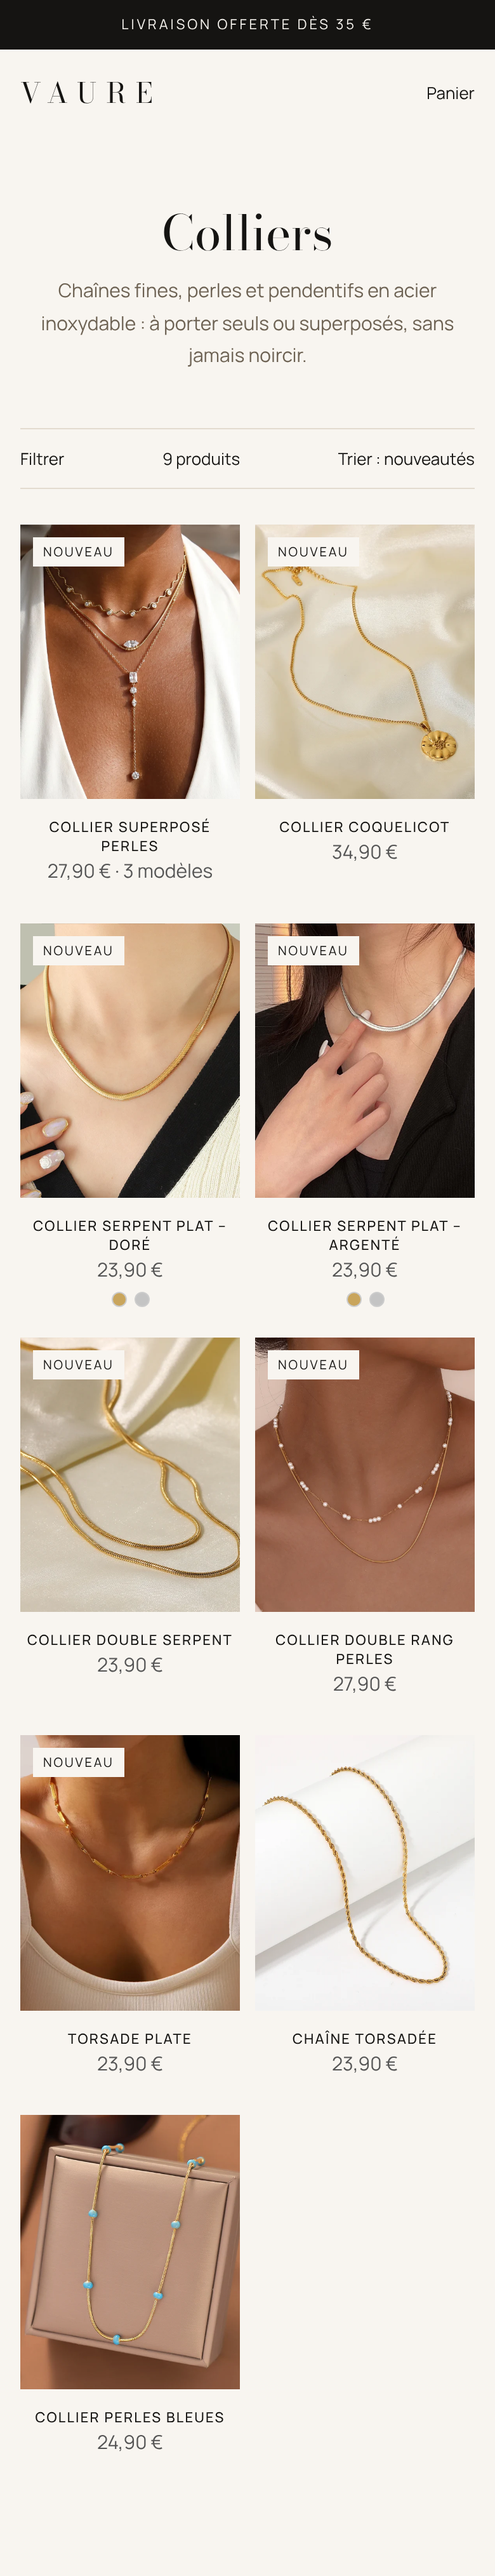
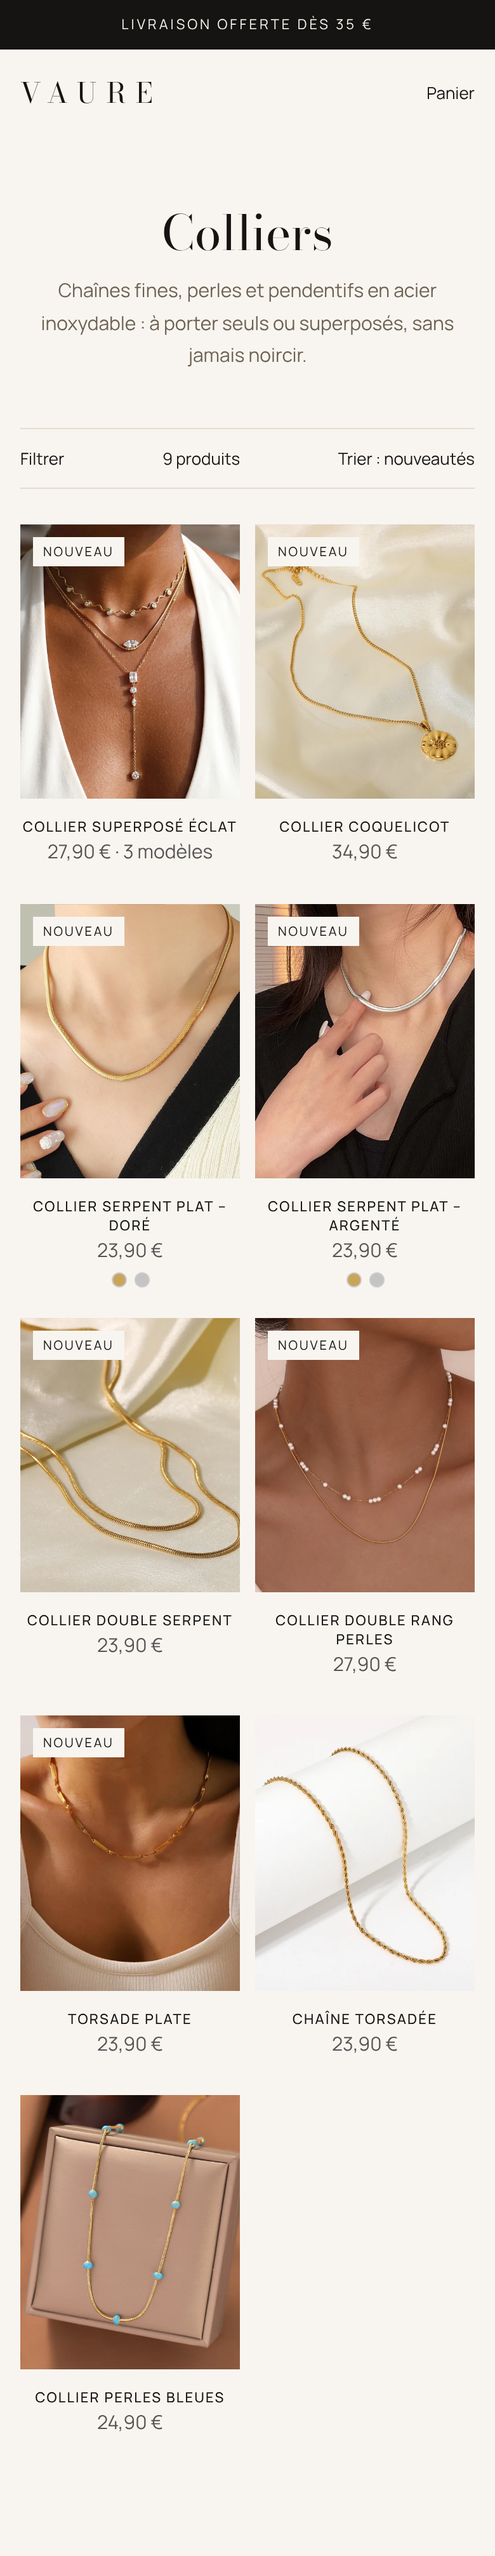
VAURE: Collier Superposé Éclat (zircons, modèles vendus séparément)
Claude-Session: https://claude.ai/code/session_013s4U6wyjEEiqqasJXAgjhq

diff --git a/vaure/docs/apercu/collection-colliers.html b/vaure/docs/apercu/collection-colliers.html
@@ -11,4 +11,4 @@
 @media(max-width:700px){.w{padding:0 16px}header nav,.ic span{display:none}h1{font-size:38px}.grid{grid-template-columns:1fr 1fr;gap:24px 12px}.card h6{font-size:11px;letter-spacing:.1em}}</style></head><body>
 <div class="ann">Livraison offerte dès 35 €</div><div class="w"><header><nav><span>Bijoux</span><span>Sacs</span><span>Ceintures</span><span>Idées cadeaux</span></nav><b>VAURE</b><div class="ic"><span>Rechercher</span><span>Compte</span>Panier</div></header>
 <div class="head"><h1>Colliers</h1><p>Chaînes fines, perles et pendentifs en acier inoxydable : à porter seuls ou superposés, sans jamais noircir.</p></div>
-<div class="bar"><span>Filtrer</span><span>9 produits</span><span>Trier : nouveautés</span></div><div class="grid"><div class="card"><div class="im" style="background-image:url(https://cdn.shopify.com/s/files/1/1007/2742/3358/files/ee2d46a5-8291-44d2-87dd-3242ead25df1.jpg?width=700)"><span class=tag>Nouveau</span></div><h6>Collier Superposé Perles</h6><p>27,90 € · 3 modèles</p><div class="dots"></div></div><div class="card"><div class="im" style="background-image:url(https://cdn.shopify.com/s/files/1/1007/2742/3358/files/5cbebb50-ffba-40a2-9ae4-e30207c7d6e8.jpg?width=700)"><span class=tag>Nouveau</span></div><h6>Collier Coquelicot</h6><p>34,90 €</p><div class="dots"></div></div><div class="card"><div class="im" style="background-image:url(https://cdn.shopify.com/s/files/1/1007/2742/3358/files/9660b893-78ed-4913-ac18-316025d2ef5c.jpg?width=700)"><span class=tag>Nouveau</span></div><h6>Collier Serpent Plat – Doré</h6><p>23,90 €</p><div class="dots"><i style="background:#c9a55c"></i><i style="background:#c4c4c4"></i></div></div><div class="card"><div class="im" style="background-image:url(https://cdn.shopify.com/s/files/1/1007/2742/3358/files/5ead61bb-2cae-4f85-804e-be19d75da4a9.jpg?width=700)"><span class=tag>Nouveau</span></div><h6>Collier Serpent Plat – Argenté</h6><p>23,90 €</p><div class="dots"><i style="background:#c9a55c"></i><i style="background:#c4c4c4"></i></div></div><div class="card"><div class="im" style="background-image:url(https://cdn.shopify.com/s/files/1/1007/2742/3358/files/d84f41c0-84d4-45f8-8561-a3ccaaeacbde.jpg?width=700)"><span class=tag>Nouveau</span></div><h6>Collier Double Serpent</h6><p>23,90 €</p><div class="dots"></div></div><div class="card"><div class="im" style="background-image:url(https://cdn.shopify.com/s/files/1/1007/2742/3358/files/afb41482-0fbc-44ee-93e2-ff548844956b.jpg?width=700)"><span class=tag>Nouveau</span></div><h6>Collier Double Rang Perles</h6><p>27,90 €</p><div class="dots"></div></div><div class="card"><div class="im" style="background-image:url(https://cdn.shopify.com/s/files/1/1007/2742/3358/files/058be650-37cd-4f9f-aba8-d6088b89d886.jpg?width=700)"><span class=tag>Nouveau</span></div><h6>Torsade Plate</h6><p>23,90 €</p><div class="dots"></div></div><div class="card"><div class="im" style="background-image:url(https://cdn.shopify.com/s/files/1/1007/2742/3358/files/9be060a6-5da0-400c-a6c6-19fea850cfcb.jpg?width=700)"></div><h6>Chaîne Torsadée</h6><p>23,90 €</p><div class="dots"></div></div><div class="card"><div class="im" style="background-image:url(https://cdn.shopify.com/s/files/1/1007/2742/3358/files/5bac2bb7-2aad-4d72-990c-c1115ac5a4c9.jpg?width=700)"></div><h6>Collier Perles Bleues</h6><p>24,90 €</p><div class="dots"></div></div></div></div></body></html>
+<div class="bar"><span>Filtrer</span><span>9 produits</span><span>Trier : nouveautés</span></div><div class="grid"><div class="card"><div class="im" style="background-image:url(https://cdn.shopify.com/s/files/1/1007/2742/3358/files/ee2d46a5-8291-44d2-87dd-3242ead25df1.jpg?width=700)"><span class=tag>Nouveau</span></div><h6>Collier Superposé Éclat</h6><p>27,90 € · 3 modèles</p><div class="dots"></div></div><div class="card"><div class="im" style="background-image:url(https://cdn.shopify.com/s/files/1/1007/2742/3358/files/5cbebb50-ffba-40a2-9ae4-e30207c7d6e8.jpg?width=700)"><span class=tag>Nouveau</span></div><h6>Collier Coquelicot</h6><p>34,90 €</p><div class="dots"></div></div><div class="card"><div class="im" style="background-image:url(https://cdn.shopify.com/s/files/1/1007/2742/3358/files/9660b893-78ed-4913-ac18-316025d2ef5c.jpg?width=700)"><span class=tag>Nouveau</span></div><h6>Collier Serpent Plat – Doré</h6><p>23,90 €</p><div class="dots"><i style="background:#c9a55c"></i><i style="background:#c4c4c4"></i></div></div><div class="card"><div class="im" style="background-image:url(https://cdn.shopify.com/s/files/1/1007/2742/3358/files/5ead61bb-2cae-4f85-804e-be19d75da4a9.jpg?width=700)"><span class=tag>Nouveau</span></div><h6>Collier Serpent Plat – Argenté</h6><p>23,90 €</p><div class="dots"><i style="background:#c9a55c"></i><i style="background:#c4c4c4"></i></div></div><div class="card"><div class="im" style="background-image:url(https://cdn.shopify.com/s/files/1/1007/2742/3358/files/d84f41c0-84d4-45f8-8561-a3ccaaeacbde.jpg?width=700)"><span class=tag>Nouveau</span></div><h6>Collier Double Serpent</h6><p>23,90 €</p><div class="dots"></div></div><div class="card"><div class="im" style="background-image:url(https://cdn.shopify.com/s/files/1/1007/2742/3358/files/afb41482-0fbc-44ee-93e2-ff548844956b.jpg?width=700)"><span class=tag>Nouveau</span></div><h6>Collier Double Rang Perles</h6><p>27,90 €</p><div class="dots"></div></div><div class="card"><div class="im" style="background-image:url(https://cdn.shopify.com/s/files/1/1007/2742/3358/files/058be650-37cd-4f9f-aba8-d6088b89d886.jpg?width=700)"><span class=tag>Nouveau</span></div><h6>Torsade Plate</h6><p>23,90 €</p><div class="dots"></div></div><div class="card"><div class="im" style="background-image:url(https://cdn.shopify.com/s/files/1/1007/2742/3358/files/9be060a6-5da0-400c-a6c6-19fea850cfcb.jpg?width=700)"></div><h6>Chaîne Torsadée</h6><p>23,90 €</p><div class="dots"></div></div><div class="card"><div class="im" style="background-image:url(https://cdn.shopify.com/s/files/1/1007/2742/3358/files/5bac2bb7-2aad-4d72-990c-c1115ac5a4c9.jpg?width=700)"></div><h6>Collier Perles Bleues</h6><p>24,90 €</p><div class="dots"></div></div></div></div></body></html>

diff --git a/vaure/docs/marges.md b/vaure/docs/marges.md
@@ -13,7 +13,7 @@ Hypothèses : −10 % (offre duo ou VAURE10, non cumulables), TVA 20 %, frais de
 | Collier Serpent Plat | 23,90 € | 5,29 € | 4,05 € | **8,01 €** | 9,97 € |
 | Collier Double Serpent | 23,90 € | 5,73 € | 4,05 € | **7,57 €** | 9,53 € |
 | Collier Perles Bleues | 24,90 € | 4,62 € | 4,05 € | **9,42 €** | 11,46 € |
-| Collier Superposé Perles | 27,90 € | 5,29 € | 4,05 € | **10,96 €** | 13,24 € |
+| Collier Superposé Éclat | 27,90 € | 5,29 € | 4,05 € | **10,96 €** | 13,24 € |
 | Collier Double Rang Perles | 27,90 € | 5,55 € | 4,05 € | **10,70 €** | 12,98 € |
 | Trio de Créoles | 29,90 € | 6,23 € | 4,05 € | **11,49 €** | 13,94 € |
 | Bracelet Rivière | 29,90 € | 6,25 € | 4,05 € | **11,47 €** | 13,92 € |
